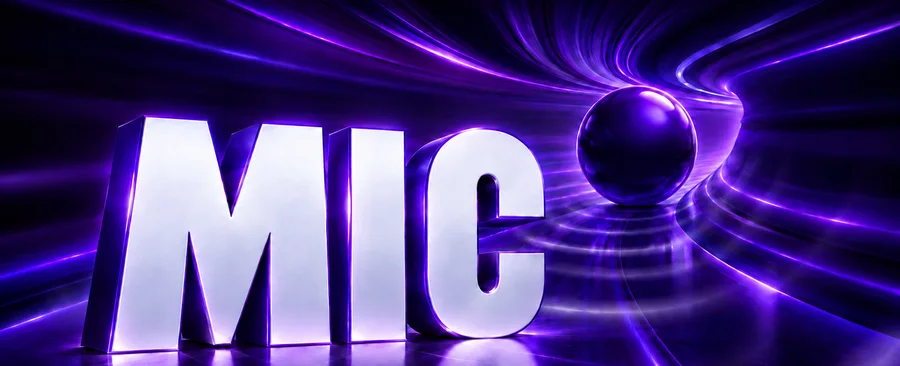
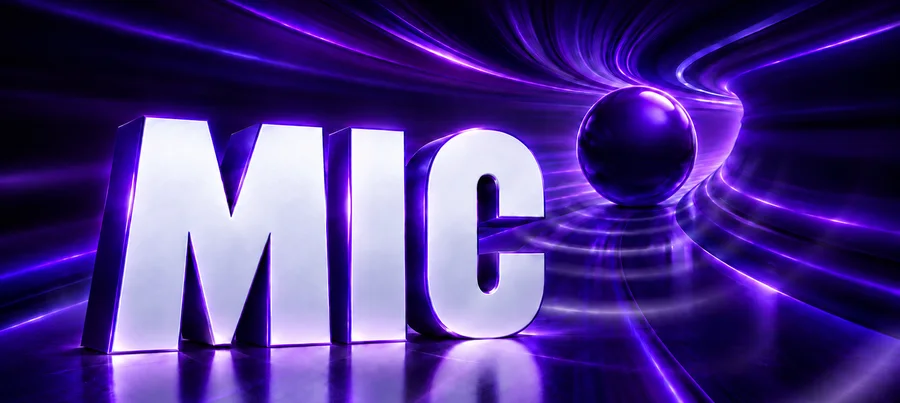
MIC hero: picture fills the left side, words level with the letters
Flush to the page edge and up to the nav at 59% of the width; CULTURE's
baseline sits on the letters' base; the back button moves top right
(under the words on phones). Cropped lower so the bottom fade stays on
the floor: the old fade began across the base of the letters and read
as a line.

diff --git a/src/styles/mic.css b/src/styles/mic.css
@@ -44,34 +44,51 @@
    ground is the circle's own #0F0222, easing into the page's indigo. */
 .mic-hero {
   background: linear-gradient(180deg, #0F0222 0%, #0F0222 78%, #06021C 100%);
-  padding: clamp(28px, 6vw, 64px) 16px 8px;
+  padding: 0 0 8px;
   border-bottom: 1px solid #251a4d;
 }
-.mic-hero__head { max-width: 1120px; margin: 0 auto; display: flex; flex-direction: column; align-items: center; gap: 18px; text-align: center; }
+/* the picture fills the hero's left side (Greg, 2026-10-26): flush to the
+   page edge and up to the nav, the words on the right, the back button in
+   the top right corner. Mobile first: the picture runs the full width with
+   the words under it. */
+.mic-hero__head { position: relative; }
 .mic-hero__lockup {
-  margin: 0; display: flex; flex-direction: column; align-items: center; gap: 0.4em;
+  margin: 0; display: flex; flex-direction: column; align-items: center; gap: 18px;
   font-family: var(--font-heading, Poppins, system-ui, sans-serif); color: #F4EFFF;
 }
-/* the MIC letters, Greg's render (2026-10-26): its edges fade into the
-   hero ground on all four sides, so the picture has no hard frame */
+/* the MIC letters, Greg's render (2026-10-26). The base of the letters
+   sits at 85.3% of the picture's height; the bottom fade starts below it,
+   on the floor, so no fade edge crosses the letters. */
 .mic-hero__image {
-  display: block; width: min(100%, 560px); height: auto;
-  -webkit-mask-image: linear-gradient(90deg, transparent 0, #000 7%, #000 93%, transparent 100%), linear-gradient(180deg, transparent 0, #000 10%, #000 88%, transparent 100%);
-  -webkit-mask-composite: source-in;
-  mask-image: linear-gradient(90deg, transparent 0, #000 7%, #000 93%, transparent 100%), linear-gradient(180deg, transparent 0, #000 10%, #000 88%, transparent 100%);
-  mask-composite: intersect;
+  display: block; width: 100%; height: auto;
+  -webkit-mask-image: linear-gradient(180deg, #000 0, #000 91%, transparent 100%);
+  mask-image: linear-gradient(180deg, #000 0, #000 91%, transparent 100%);
 }
 .mic-hero__words {
   display: flex; flex-direction: column; align-items: center; gap: 0.08em;
   font-size: clamp(1.15rem, 5vw, 1.9rem); font-weight: 700; line-height: 1.05; letter-spacing: 0.16em; text-transform: uppercase; color: #CDBDF0;
 }
 .mic-hero__words > span:nth-child(2) { color: #F4EFFF; }
-.mic-hero__circle { max-width: 760px; margin: 0 auto; }
+/* on a phone the button sits under the words; top right from 600px */
+.mic-hero__head .mic-banner__back { display: table; margin: 16px auto 0; }
+.mic-hero__circle { max-width: 760px; margin: 0 auto; padding: 0 16px; }
 @media (min-width: 600px) {
-  .mic-hero__lockup { flex-direction: row; align-items: center; gap: 0.35em; }
-  /* the picture and the words share the row and scale together */
-  .mic-hero__image { width: clamp(280px, 46vw, 720px); }
-  .mic-hero__words { font-size: clamp(1rem, 3.3vw, 1.9rem); align-items: flex-start; padding-left: 0.6em; border-left: 3px solid #5B04DE; }
+  /* the picture takes 59% of the width at its own shape (1672 x 748); the
+     words column ends level with the letters' base: 14.7% of the picture's
+     height, 59vw / 2.235 tall, less the caps' gap under the baseline */
+  .mic-hero__lockup { flex-direction: row; align-items: flex-end; gap: clamp(20px, 3vw, 44px); }
+  .mic-hero__image {
+    flex: none; width: 59vw;
+    -webkit-mask-image: linear-gradient(90deg, #000 0, #000 88%, transparent 100%), linear-gradient(180deg, #000 0, #000 91%, transparent 100%);
+    -webkit-mask-composite: source-in;
+    mask-image: linear-gradient(90deg, #000 0, #000 88%, transparent 100%), linear-gradient(180deg, #000 0, #000 91%, transparent 100%);
+    mask-composite: intersect;
+  }
+  .mic-hero__words {
+    font-size: clamp(1rem, 2.6vw, 1.9rem); align-items: flex-start; padding-left: 0.6em; border-left: 3px solid #5B04DE;
+    margin-bottom: calc(3.88vw - 0.16em);
+  }
+  .mic-hero__head .mic-banner__back { position: absolute; z-index: 2; margin: 0; top: clamp(16px, 2.6vw, 40px); right: clamp(16px, 3vw, 48px); }
 }
 
 /* Twelve Signs, under its own heading below the hero */

diff --git a/src/app/components/MIC.tsx b/src/app/components/MIC.tsx
@@ -20,15 +20,15 @@ export function MIC() {
           <h1 id="mic-hero-title" className="mic-hero__lockup" aria-label="MIC: Media, Information, Culture">
             {/* the MIC letters are Greg's render (2026-10-26): lit, extruded
                 letters on a violet light tunnel, the texture and depth web
-                type can't give; cropped to his lines, the edges faded into
-                the hero ground */}
+                type can't give. It fills the hero's left side, flush to
+                the page edge and up to the nav */}
             <img
               className="mic-hero__image"
               src={`${base}assets/brand/mic-hero-1672.webp`}
               srcSet={`${base}assets/brand/mic-hero-900.webp 900w, ${base}assets/brand/mic-hero-1672.webp 1672w`}
-              sizes="(min-width: 600px) min(46vw, 720px), 100vw"
+              sizes="(min-width: 600px) 59vw, 100vw"
               width="1672"
-              height="680"
+              height="748"
               alt=""
               decoding="async"
             />
